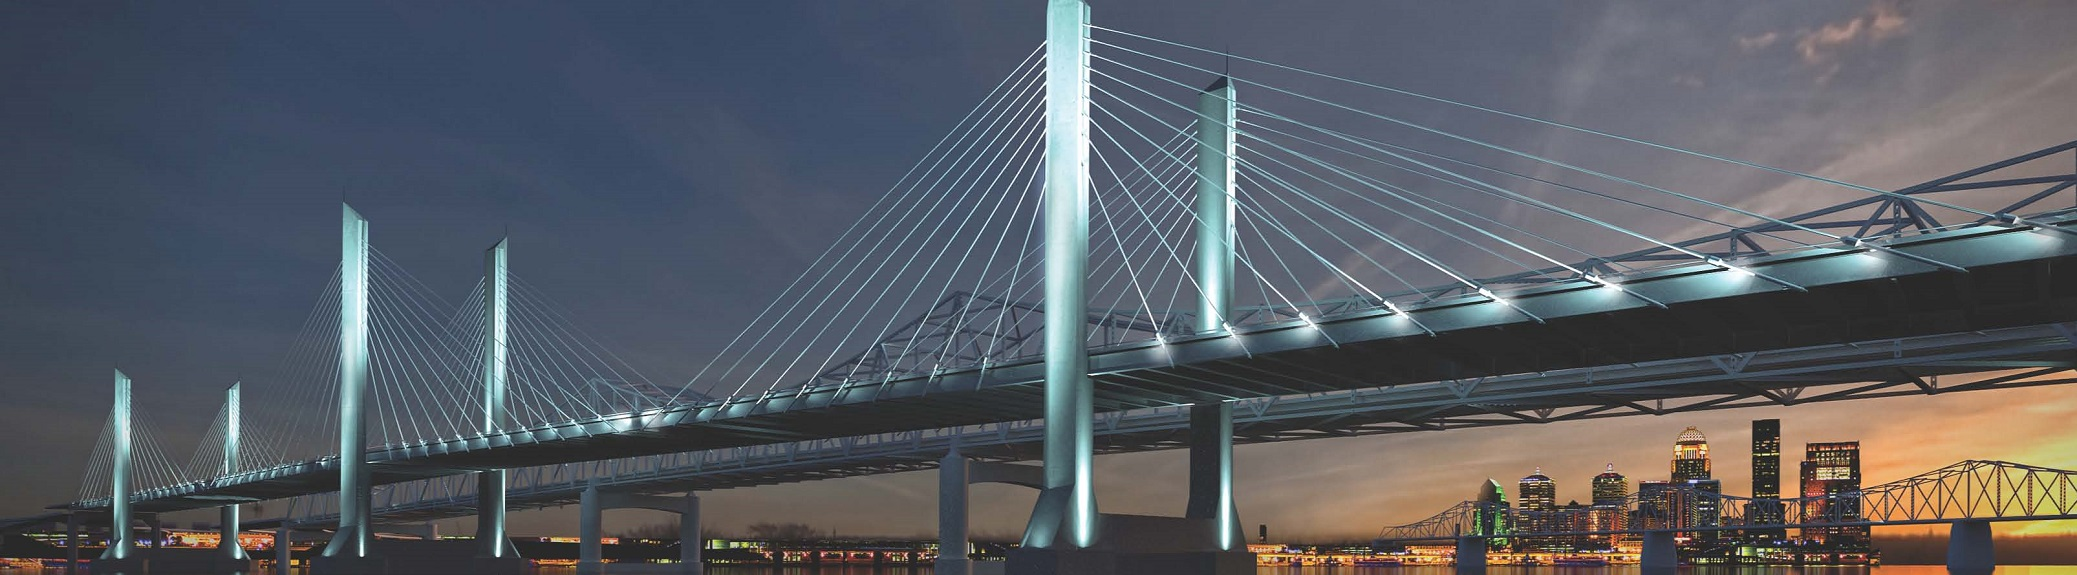
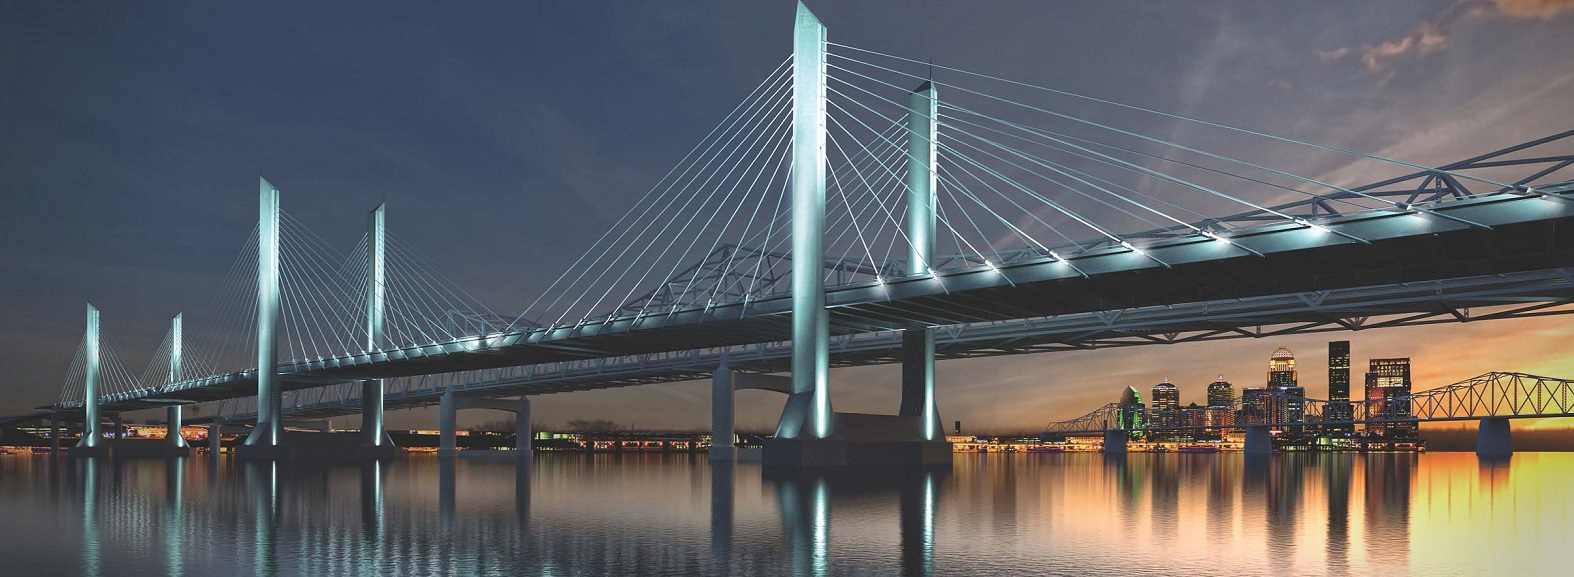
Added menu bar and jqueries

diff --git a/index.html b/index.html
@@ -5,11 +5,13 @@
     <title>Code Louisville City Guide</title>
     <meta charset="utf-8">
     <meta name="Author" content="Dhanapala Godage">
-    <meta name="viewport" content="initial-scale=1" />
+    <meta name="viewport" content="width=device-width, initial-scale=1, maximum-scale=1" />
     <!--adding stylesheet-->
     <link rel="stylesheet" href="css/normalize.css">
     <link rel="stylesheet" href="css/fa-brands.min.css">
-    <link rel="stylesheet" href="https://maxcdn.bootstrapcdn.com/bootstrap/4.0.0-beta/css/bootstrap.min.css" integrity="sha384-/Y6pD6FV/Vv2HJnA6t+vslU6fwYXjCFtcEpHbNJ0lyAFsXTsjBbfaDjzALeQsN6M" crossorigin="anonymous">
+    <link rel="stylesheet" href="https://maxcdn.bootstrapcdn.com/bootstrap/4.0.0-beta/css/bootstrap.min.css">
+    <link rel="stylesheet" href="https://maxcdn.bootstrapcdn.com/font-awesome/4.7.0/css/font-awesome.min.css">
+    <!-- integrity="sha384-/Y6pD6FV/Vv2HJnA6t+vslU6fwYXjCFtcEpHbNJ0lyAFsXTsjBbfaDjzALeQsN6M" crossorigin="anonymous"> -->
 
     <link rel="stylesheet" href="css/style.css">
     <script defer src="https://use.fontawesome.com/releases/v5.0.6/js/all.js"></script>
@@ -19,9 +21,22 @@
 <body>
     <!--Begin Header -->
     <header>
+
         <div class="main-header">
+            <!-- <video autoplay muted loop class="lou-video">
+               <source src="img/Louisville.mp4" type="video/mp4">
+                Your browser does not support HTML5 video.
+            </video> -->
             <!--Begin Navigation Menu -->
             <nav>
+                <div>
+                    <span class="mobile-bar">
+                        <i class="fas fa-bars" aria-hidden="true"></i>
+                    </span>
+                    <span class="mobile-barX">
+                        <i class="fas fa-times" aria-hidden="true"></i>
+                    </span>
+                </div>
                 <ul class="main-nav">
                     <li><a href="#">Home</a></li>
                     <li class="show-hotels"><a href="#">Hotels</a>
@@ -33,15 +48,17 @@
                     <li><a href="#">Events</a></li>
                     <!-- Derby, Thunder, Worldfest, Pegases Parade-->
                     <li class="museum"><a href="#">Museums</a>
+
                         <div class="museum-list">
-                            <div><a href="https://www.sluggermuseum.com/">Slugger Museum</a></div>
-                            <div><a href="https://www.derbymuseum.org/">Derby   Museum</a></div>
-                            <div><a href="https://alicenter.org/">Muhammad Ali Center</a></div>
-                            <div><a href="https://fraziermuseum.org/">Frazier History Museum</a></div>
+                            <div><a href="https://www.sluggermuseum.com/" target="_blank">Slugger Museum</a></div>
+                            <div><a href="https://www.derbymuseum.org/" target="_blank">Derby   Museum</a></div>
+                            <div><a href="https://alicenter.org/" target="_blank">Muhammad Ali Center</a></div>
+                            <div><a href="https://fraziermuseum.org/" target="_blank">Frazier History Museum</a></div>
                             <div><a href="http://www.speedmuseum.org/">The Speed Art Museum</a></div>
                             <div><a href="https://kysciencecenter.org/">Kentucky Science Center</a></div>
                             <div><a href="https://conrad-caldwell.org/">Conrad-Caldwell House Museum</a></div>
                         </div>
+
                     </li>
                     <!-- Slugger-->
                     <li><a href="#">Leisure</a></li>
@@ -51,6 +68,9 @@
 
                 </ul>
             </nav>
+            <!-- <video width="2000" height="577" loop="loop" muted="" autoplay="autoplay" playsinline="playsinline" poster="../img/LouisvilleCityKy.jpg" id="test">
+                <source src="Adobe.mp4" type="video/mp4">                    
+            </video> -->
             <!--End Navigation Menu -->
             <h1>Louisville City Guide</h1>
         </div>
@@ -61,9 +81,9 @@
     <!--Begin Main Content   -->
     <!--Begin Banner Section-->
 
-    <div>
+    <div class="">
         <div class="welcome-h2">
-            <h2>W E L C O M E to Louisville City</h2>
+            <h2>WELCOME <br/>to Louisville City</h2>
         </div>
         <div class="welcome screen-max-width background-color">
             <p class="first-line welcome-p ">Louisville in Kentucky, a city that has something for everyone. If you’re coming with your children, check out the Kentucky Science Center, the Louisville Zoo, or Louisville’s Waterfront Park. All of these activities are sure to keep your

diff --git a/css/style1.css b/css/style1.css
@@ -9,10 +9,9 @@
     
     body {
         /* margin-left: 16px; */
-        /* background-color: rgb(47, 46, 77); */
+        background-color: rgb(47, 46, 77);
         font-family: Verdana, 'Segoe UI', sans-serif, "Times New Roman", serif;
         /* background-image: url("../img/background2.jpg"); */
-        background-image: linear-gradient( #50686a, #ffffff);
     }
     
     h1 {
@@ -52,31 +51,19 @@
     }
     
     .mobile-bar {
-        width: 60px;
+        /* width: 120px; */
         font-size: 1.5rem;
         padding: 10px;
-        /* background-color: rgb(80, 92, 134); */
+        background-color: rgb(80, 92, 134);
         color: white;
         /*Mobile Screen Visible*/
         display: visible;
         transition: all 500ms linear;
     }
     
-    .mobile-barX {
-        /* width: 80px; */
-        font-size: 1.5rem;
-        padding: 10px;
-        /* background-color: rgb(80, 92, 134); */
-        color: white;
-        /*Mobile Screen Visible*/
-        display: none;
-        transition: all 500ms linear;
-    }
-    
     .main-nav {
         position: fixed;
-        /* background-color: rgb(80, 92, 134); */
-        background: rgba(55, 71, 96, 0.8);
+        background-color: rgb(80, 92, 134);
         width: 100px;
         padding: 3px;
         list-style: none;
@@ -95,8 +82,7 @@
         display: none;
         left: 90px;
         width: 300px;
-        background: rgba(55, 71, 96, 0.8);
-        /* background: rgb(80, 92, 134); */
+        background: rgb(80, 92, 134);
     }
     /* 
     .main-nav li {
@@ -246,10 +232,10 @@
         /*background-color: bisque;*/
         background-color: rgb(47, 46, 77);
         ;
-        background-image: url("../img/LouisvilleCityKy.jpg");
+        background-image: url("../img/New BridgeAtNight.jpg");
         background-repeat: no-repeat;
         /*background-size: auto, cover;*/
-        height: 407px;
+        height: 578px;
         /*padding: 0 0 20em 0;*/
     }
     
@@ -282,15 +268,14 @@
     @media screen and (min-width:650px) {
         .main-header {
             /*background-color: rgb(47, 46, 77);*/
-            background-image: url("../img/New BridgeAtNight.jpg");
+            background-image: url("../img/LouisvilleCityKy.jpg");
             background-repeat: no-repeat;
             background-position: center;
             background-attachment: inherit;
             background-size: cover;
             height: 377px;
         }
-        .mobile-bar,
-        .mobile-barX {
+        .mobile-bar {
             /*Not display at this screen size*/
             display: none;
         }
@@ -305,7 +290,7 @@
         /*NAVIGATION BAR*/
         .main-nav {
             position: relative;
-            /* background-color: rgb(80, 92, 134); */
+            background-color: rgb(80, 92, 134);
             width: 100%;
             margin: 0;
             padding: 0;
@@ -342,7 +327,7 @@
             margin: 0;
             left: 0;
             width: 300px;
-            /* background: rgb(80, 92, 134); */
+            background: rgb(80, 92, 134);
         }
         /*END NAVIGATION BAR*/
         .columns {
@@ -362,7 +347,7 @@
     @media screen and (min-width:1200px) {
         .main-header {
             /*background-color: rgb(47, 46, 77);*/
-            background-image: url("../img/New BridgeAtNight.jpg");
+            background-image: url("../img/LouisvilleCityKy.jpg");
             background-repeat: no-repeat;
             background-position: center;
             background-attachment: inherit;

diff --git a/js/app.js b/js/app.js
@@ -1,11 +1,31 @@
-// $("#hotels").hover(function() {
-//     $(".hotels").toggleClass("show", "hide");
-// });
-
 $(".museum").mouseover(function() {
     $(".museum-list").show();
 });
 
 $(".museum").mouseout(function() {
     $(".museum-list").hide();
+});
+
+
+$(".mobile-bar").click(function() {
+    // if ($(".main-nav").is(":visible"))
+    $(".mobile-barX").show()
+    $(".main-nav").show()
+});
+
+$(".mobile-barX").click(function() {
+    $(".main-nav").hide()
+    $(".mobile-barX").hide()
+});
+
+$(window).resize(function() {
+    if ($(window).width() > 632)
+        $(".main-nav").show()
+    else
+        $(".main-nav").hide()
+});
+
+$(function() {
+    if ($(window).width() > 632)
+        $(".main-nav").show()
 });
